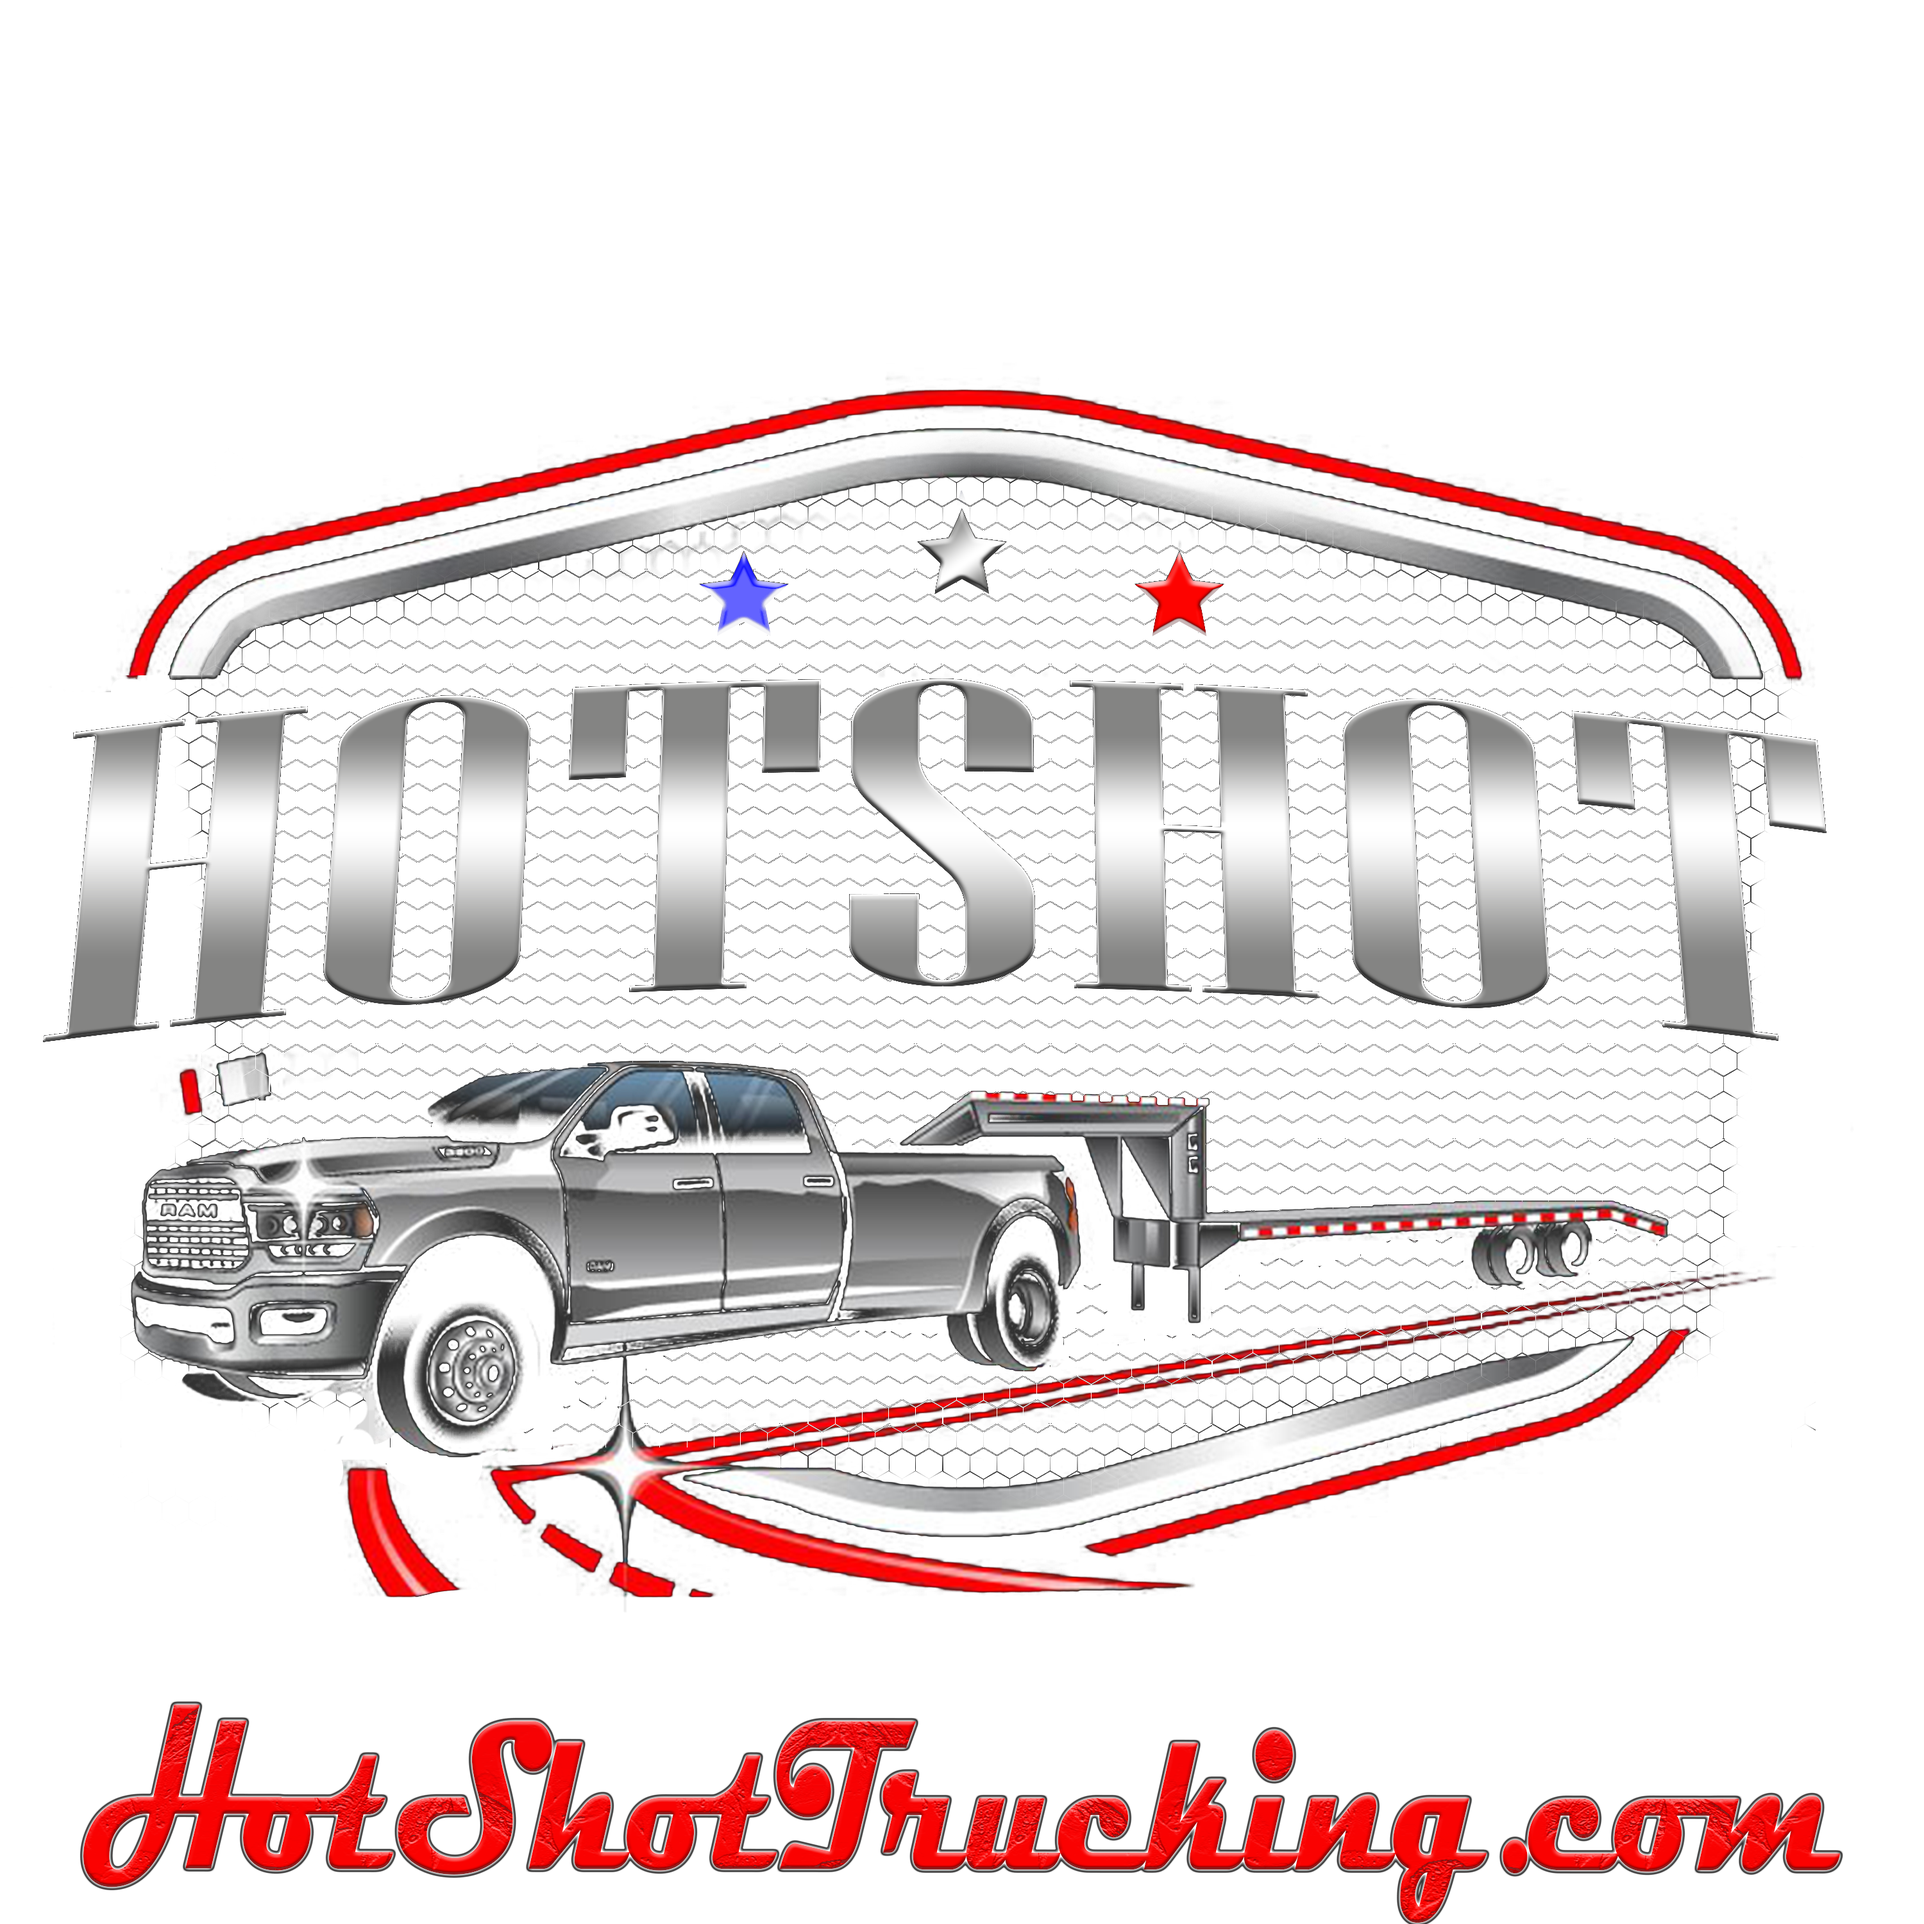
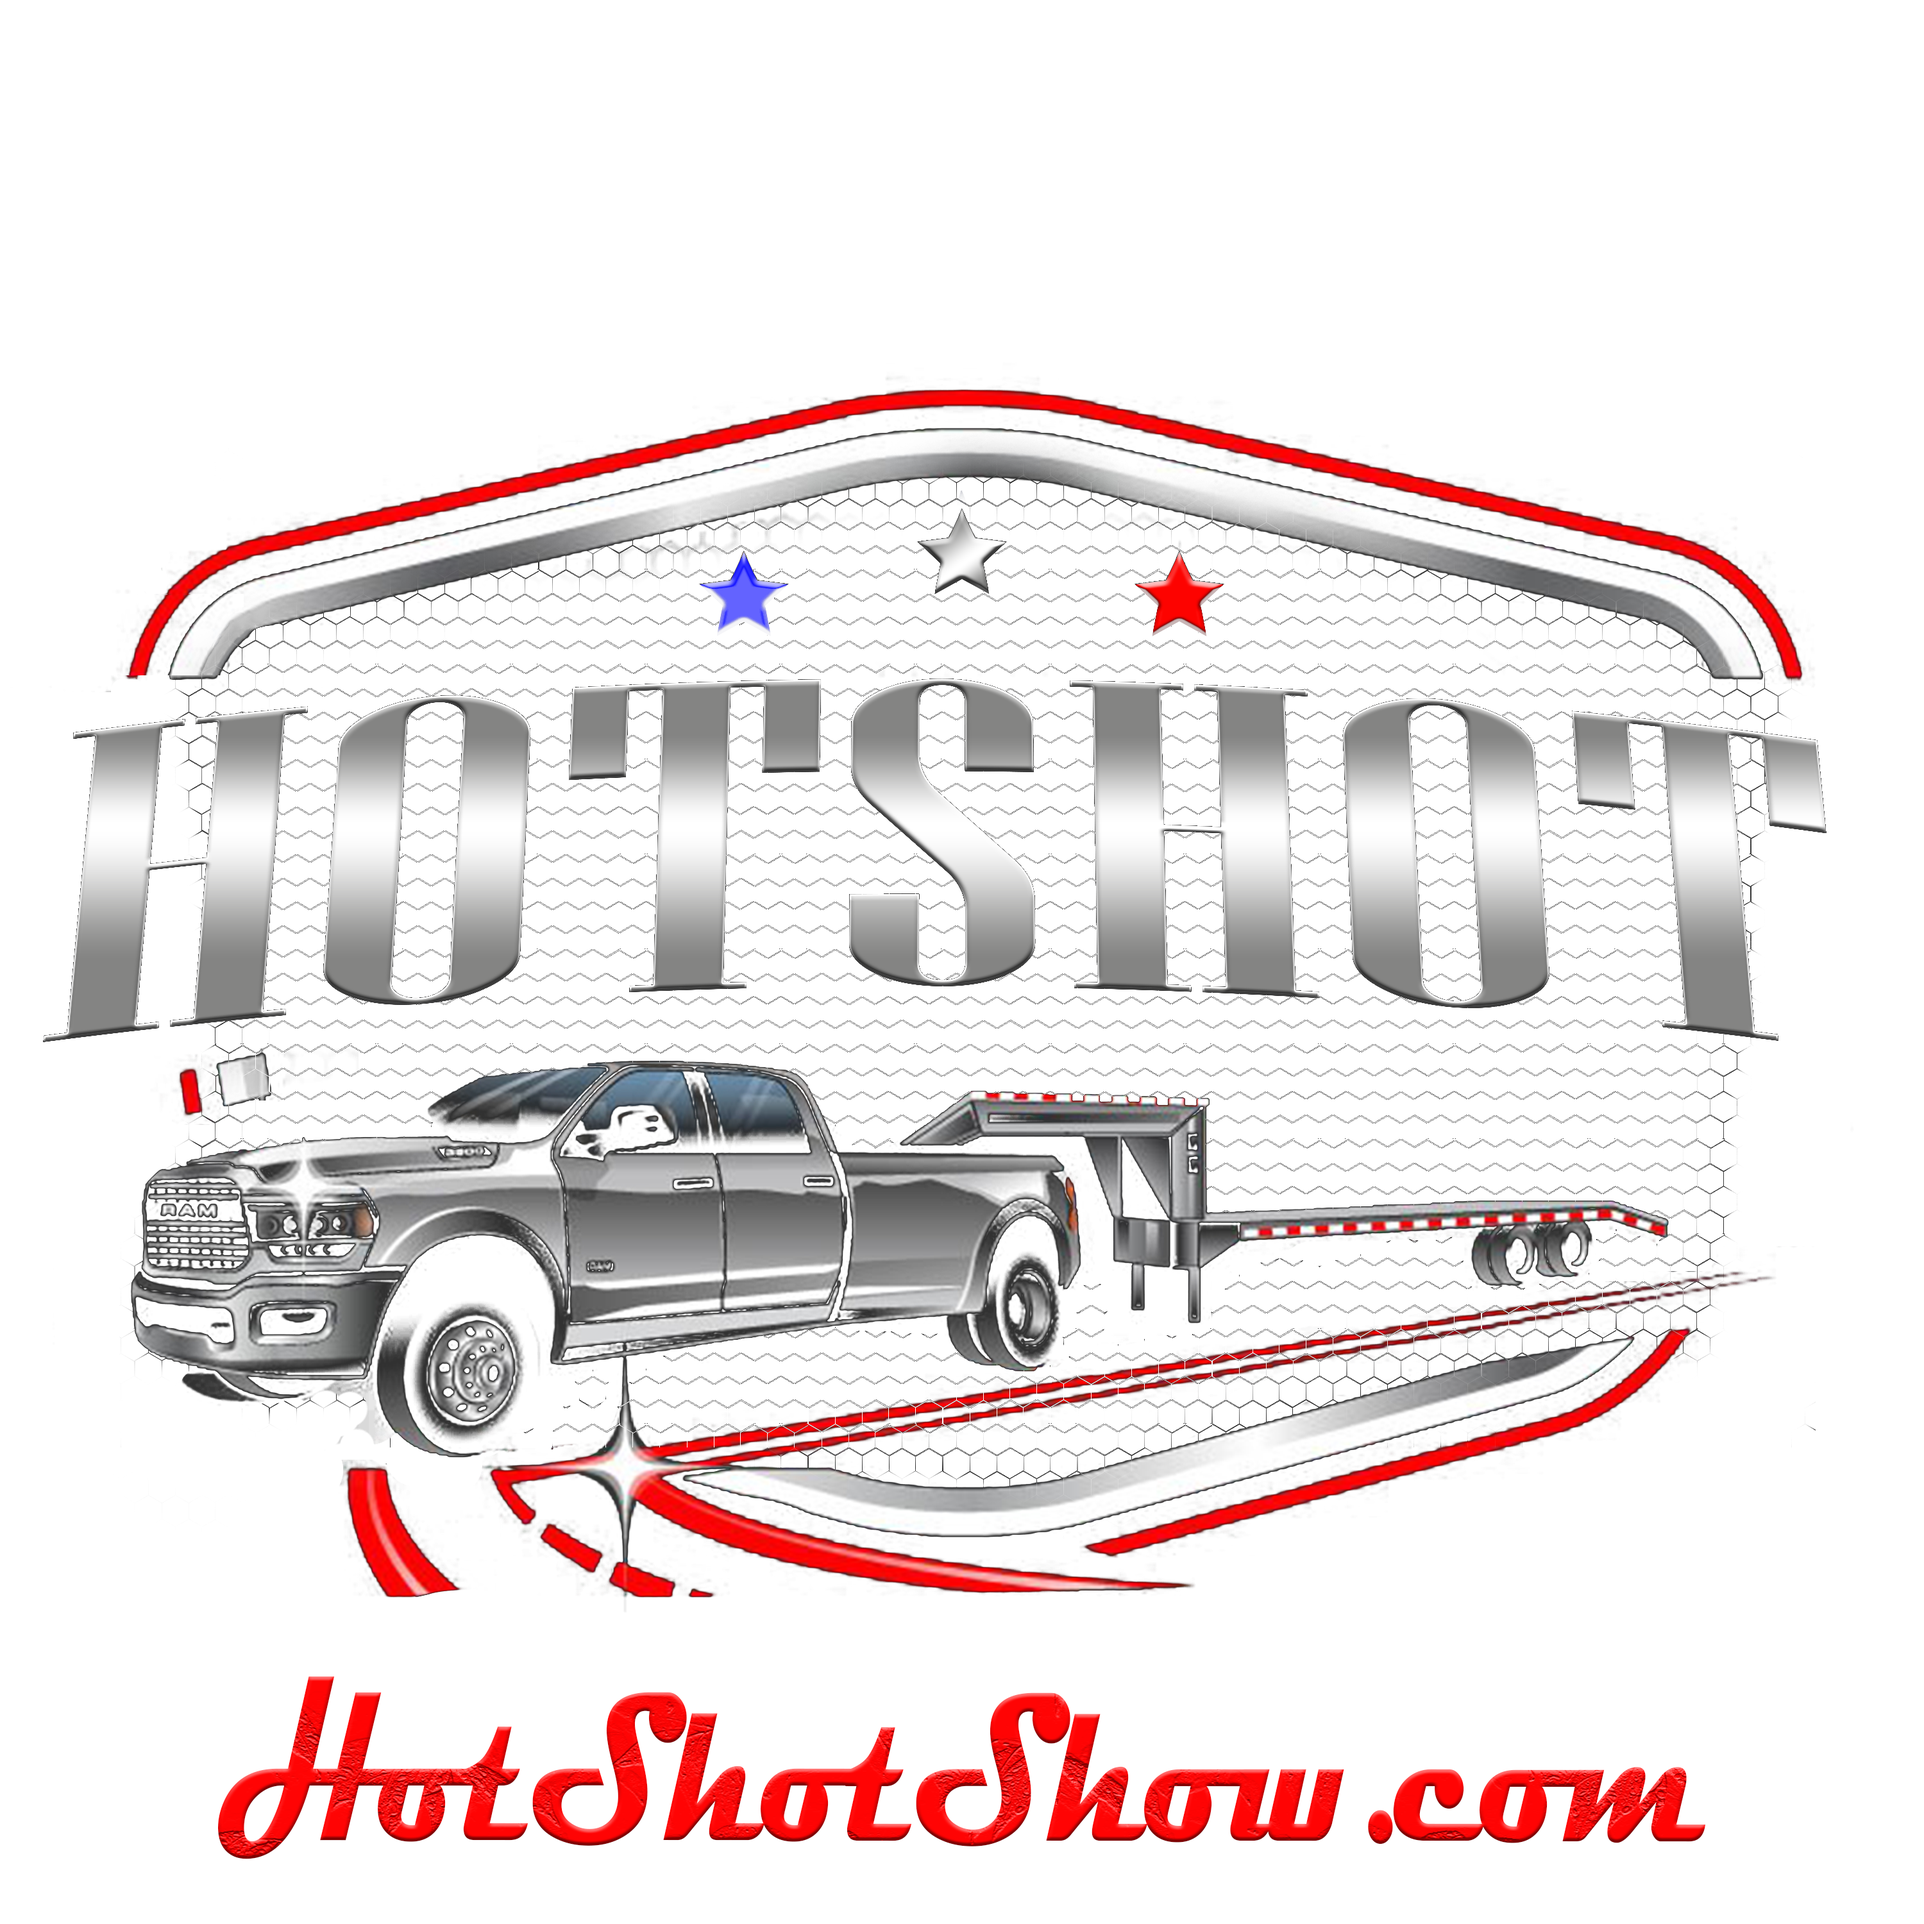
HotShot Pic

Changed region(s): [[0.031, 0.868, 0.961, 1.0]]

diff --git a/projects.html b/projects.html
@@ -11,9 +11,8 @@
   </div>
 <body>
 <h1>Trucking Edit :D</h1>
-<a href=https://www.hotshottrucking.com/>
+<a href=https://www.hotshotshow.com/>
   <img src="trucking1.png" alt="HOTSHOT Trucking" class="center" width="500" height="600">
 </a>
-
 </body>
 </html> 
